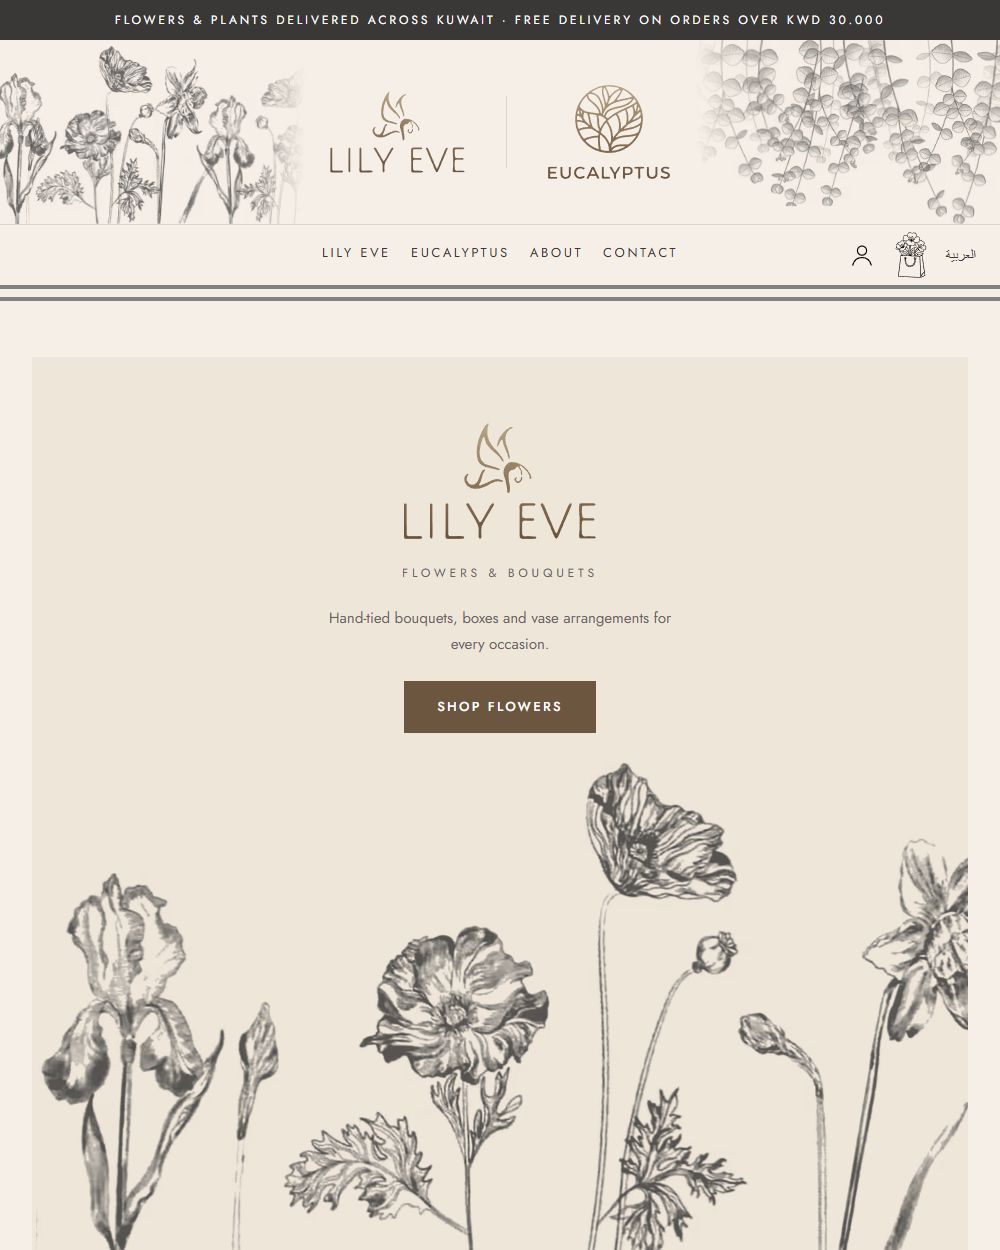
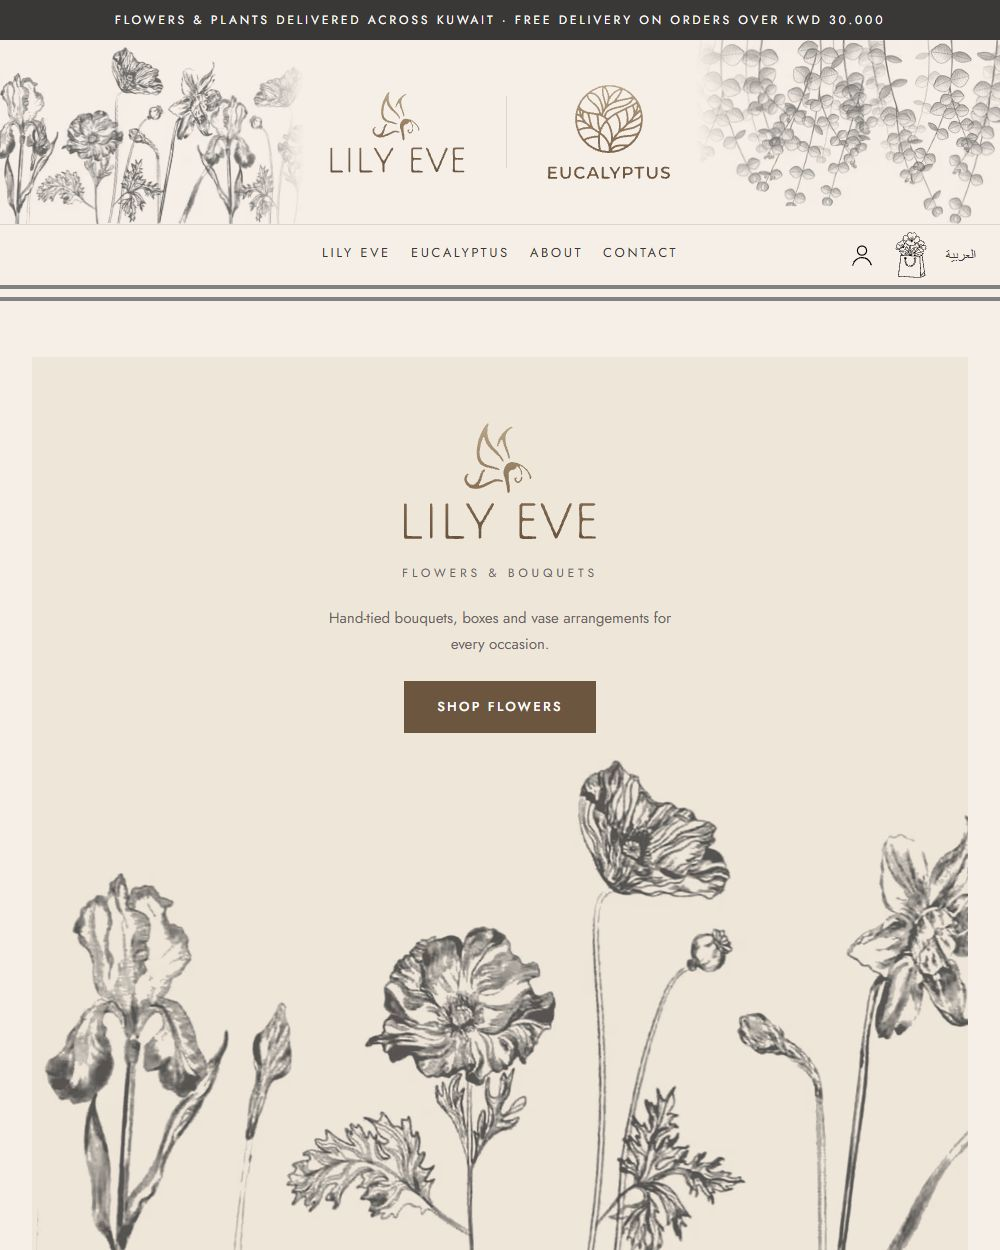
Point Maktob and Lily Eve at their live domains
- Maktob Holding: maktobholding.com (was maktob-website.vercel.app)
- Lily Eve & Eucalyptus: lilyeveco.com (was lily-eve-ecommerce.vercel.app)
- Re-capture both screenshots from the live sites

diff --git a/frontend/src/data/portfolio.ts b/frontend/src/data/portfolio.ts
@@ -111,8 +111,8 @@ export const webProjects: WebProject[] = [
     kind: 'Flower and plant store',
     origin: 'VirtuProse',
     market: 'Kuwait',
-    url: 'https://lily-eve-ecommerce.vercel.app/',
-    displayUrl: 'lily-eve-ecommerce.vercel.app',
+    url: 'https://www.lilyeveco.com/',
+    displayUrl: 'lilyeveco.com',
     summary:
       'One online store for two brands: Lily Eve sells flowers, Eucalyptus sells plants. Shoppers browse by brand or occasion and pay in Kuwaiti dinar.',
     points: ['Two brands sharing one catalogue and bag', 'English and Arabic storefront', 'Accounts and order tracking'],
@@ -126,8 +126,8 @@ export const webProjects: WebProject[] = [
     kind: 'Investment office site',
     origin: 'VirtuProse',
     market: 'Kuwait',
-    url: 'https://maktob-website.vercel.app/',
-    displayUrl: 'maktob-website.vercel.app',
+    url: 'https://maktobholding.com/',
+    displayUrl: 'maktobholding.com',
     summary:
       'A publishing site for a private investment office, with long articles on equities, commodities and the Kuwait Stock Exchange.',
     points: ['Articles in English and Arabic', 'Blog with category filters', 'Light and dark reading modes'],
